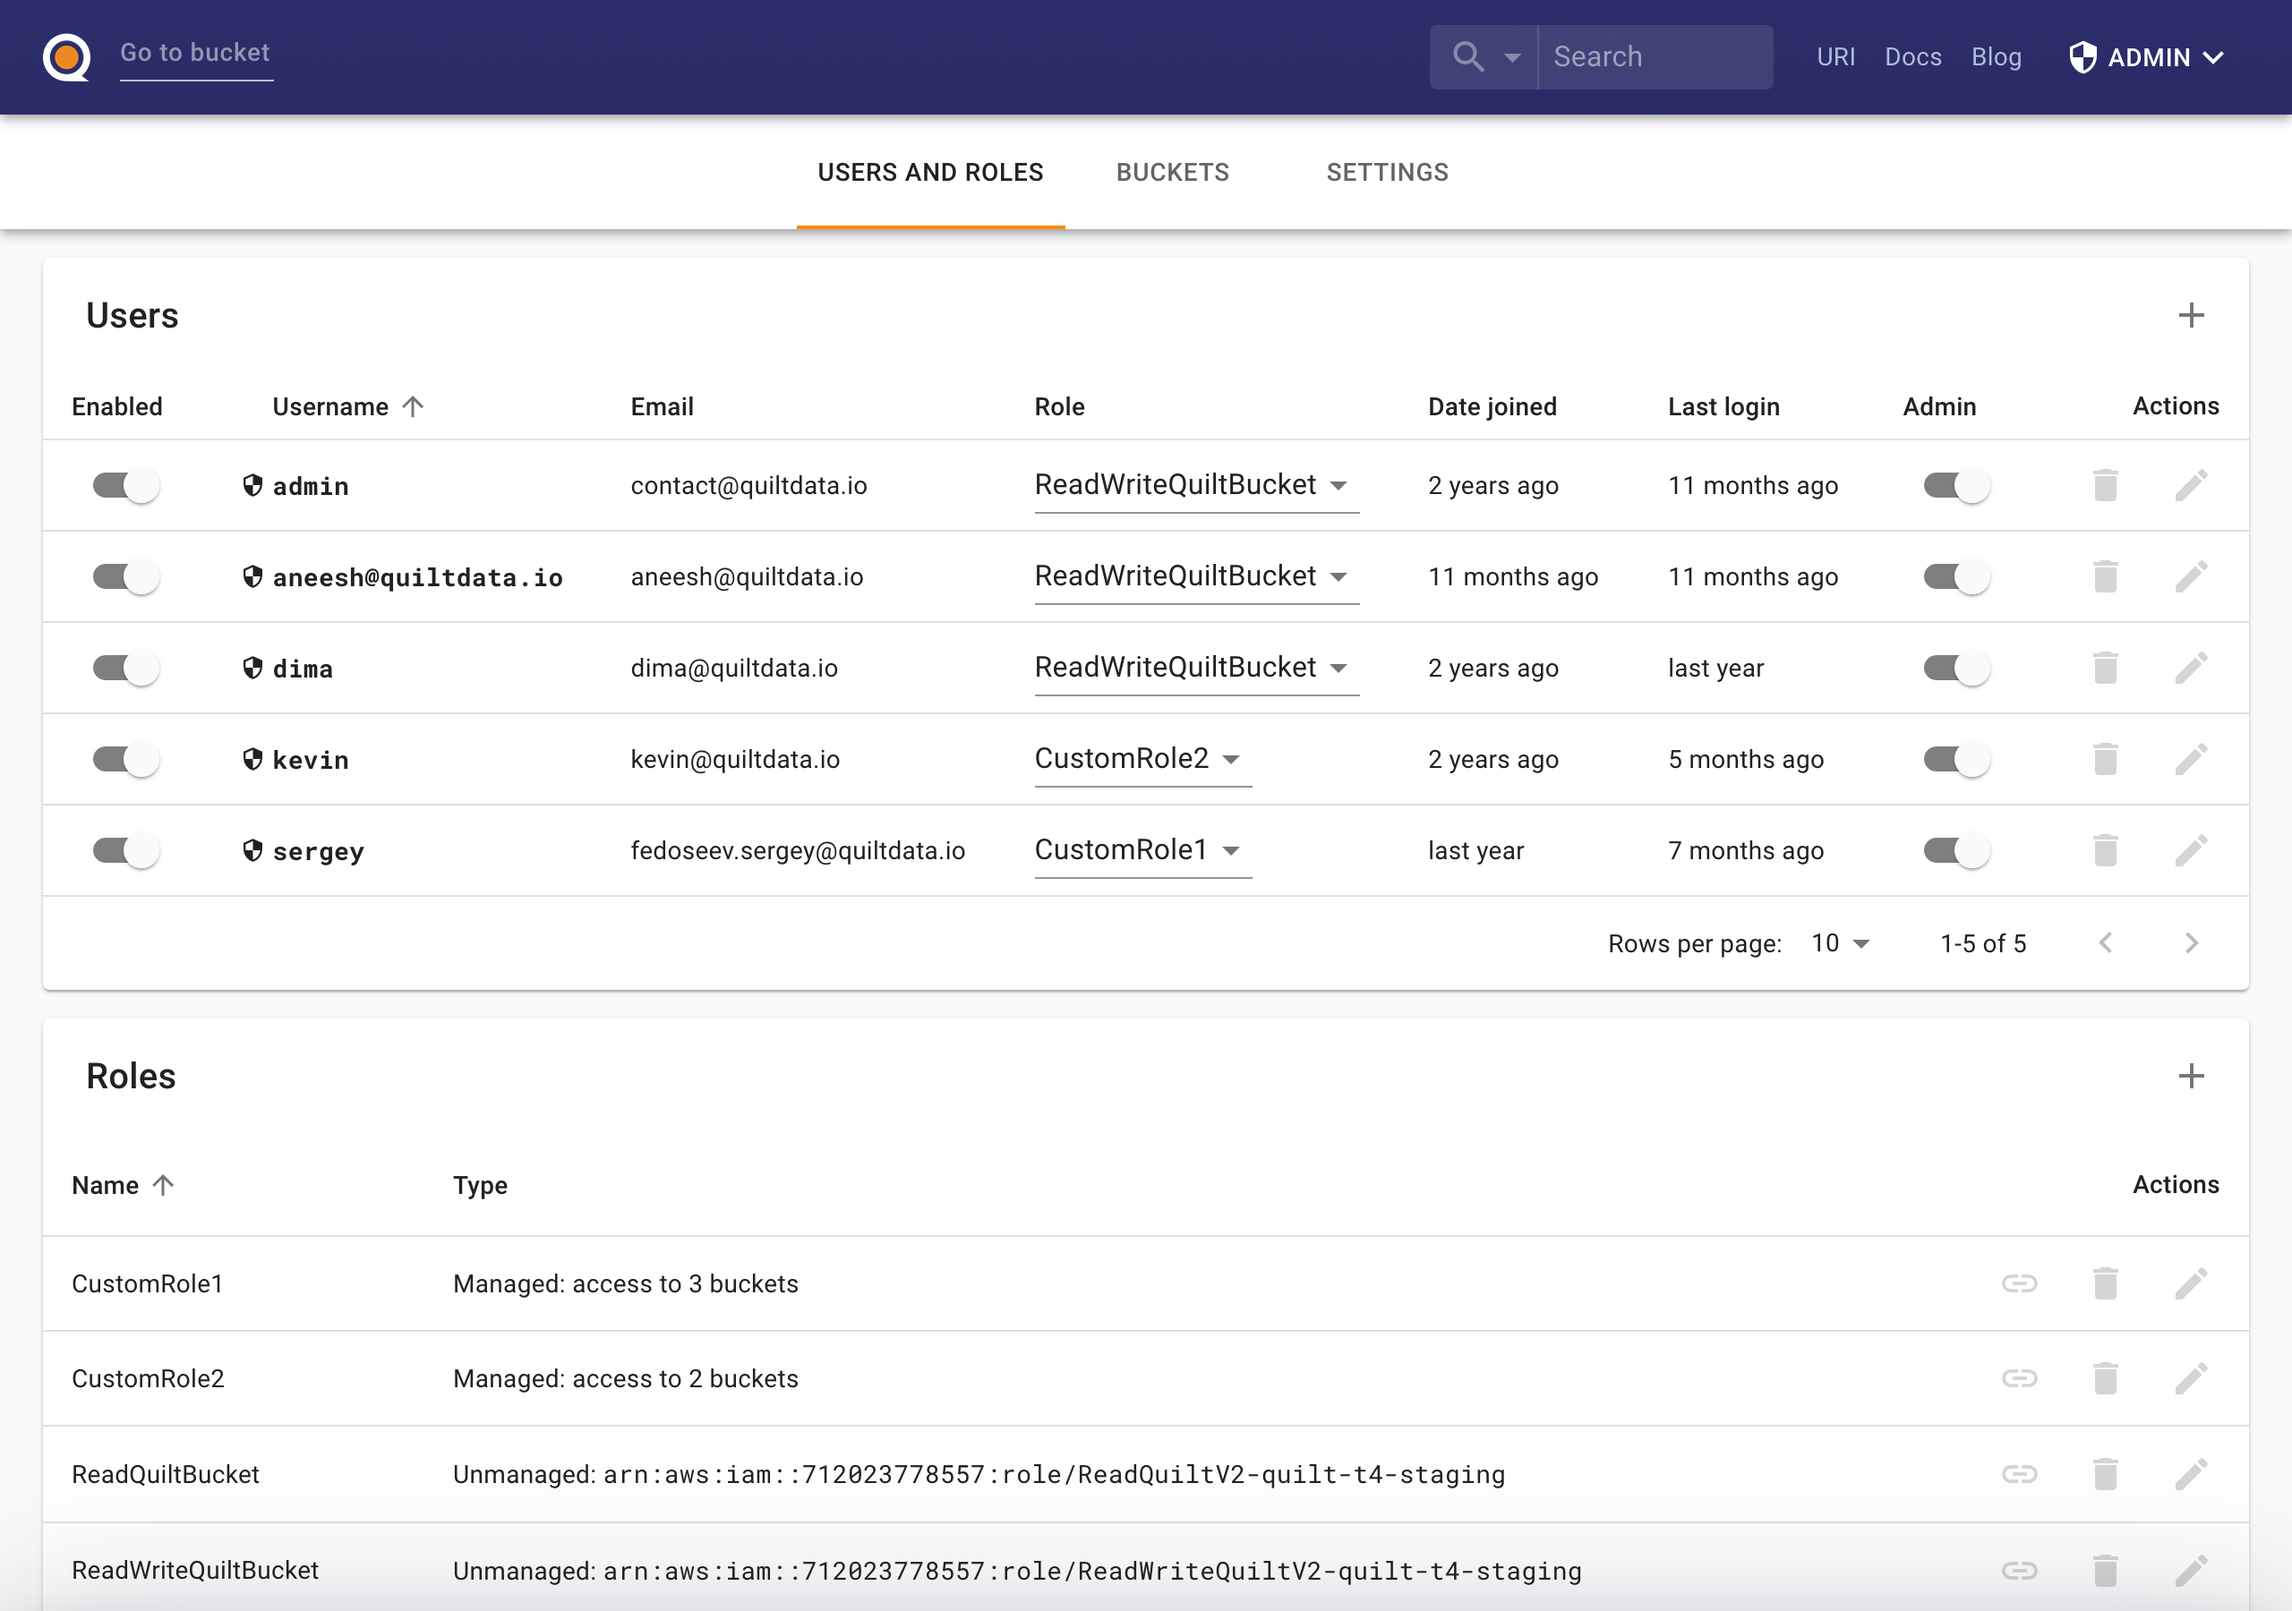
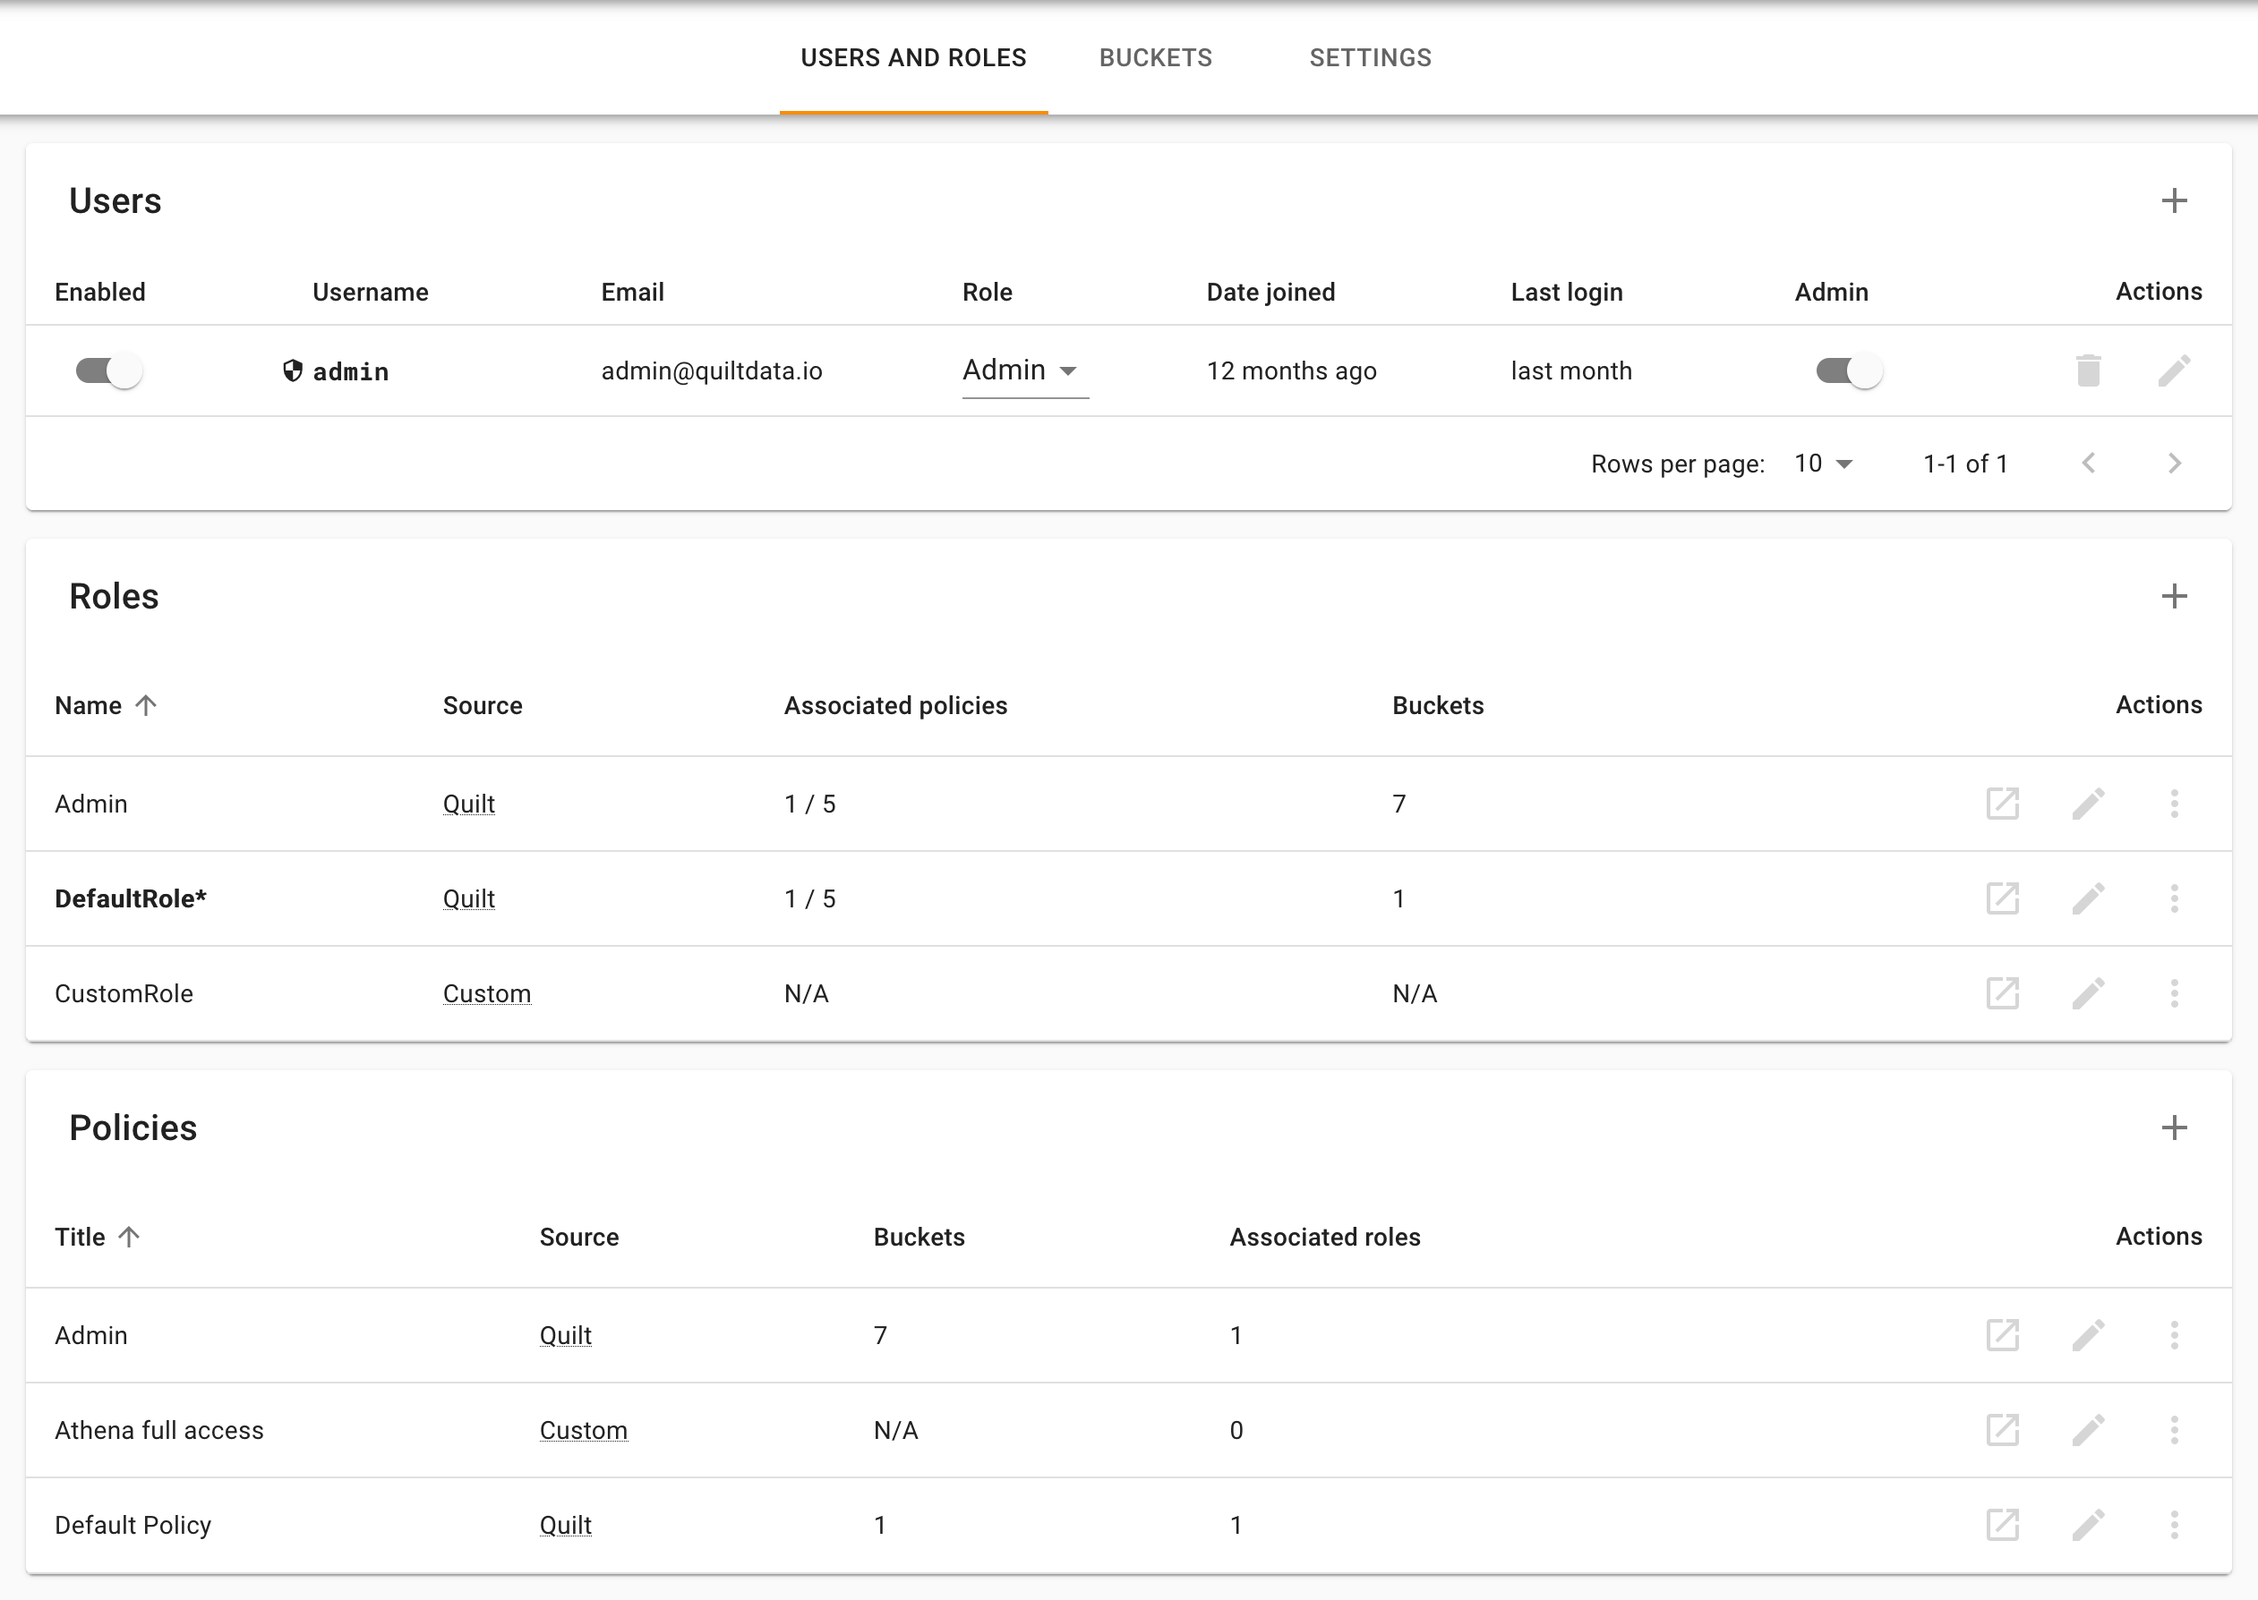
policies doc

diff --git a/docs/Catalog/Admin.md b/docs/Catalog/Admin.md
@@ -19,23 +19,50 @@ functions:
 * De/activate user
 * De/admin user
 * Assign roles to users
+* Configure access policies
 
 ![](../imgs/admin-users-roles.png)
 
 You may invite new users to your Quilt stack by clicking the + button, upper right.
 
-You may create custom roles for different groups of users. With the exception of
-administrators, users of managed roles are only aware of the buckets that they
-are permitted to read. All other stack buckets are invisible to users of managed
-roles.
-
-![](../imgs/admin-users-roles-create-managed.png)
-
-You must select the default role for all new users, else they will
-not be able to sign in to the Quilt catalog.
-The default role is shown in bold.
+You must select the default role for all new users, else they will not be able
+to sign in to the Quilt catalog. The default role is shown in bold.
 
 ![](../imgs/default-role.png)
+
+You may create roles for different groups of users by combining up to 5 policies.
+With the exception of administrators, users of managed roles can only see, list,
+and search buckets for which they are explicitly granted read access.
+
+![](../imgs/admin-role-managed-create.png)
+
+![](../imgs/admin-role-managed-attach-policy.png)
+
+Alternatively, you may provide your own IAM roles via ARN:
+
+![](../imgs/admin-role-unmanaged-create.png)
+
+You may create policies providing access to a selected set of buckets:
+
+![](../imgs/admin-policy-managed-create.png)
+
+![](../imgs/admin-policy-managed-bucket-access-add.png)
+
+![](../imgs/admin-policy-managed-bucket-access.png)
+
+![](../imgs/admin-policy-managed-bucket-access-change.png)
+
+You may attach policies to managed roles from policy edit and create screens:
+
+![](../imgs/admin-policy-attach-to-role.png)
+
+You may also provide custom policies via ARN:
+
+![](../imgs/admin-policy-unmanaged-create.png)
+
+The resulting permission set is equivalent to a union of all permissions
+provided by the policies attached to that role.
+
 
 ## Buckets
 
